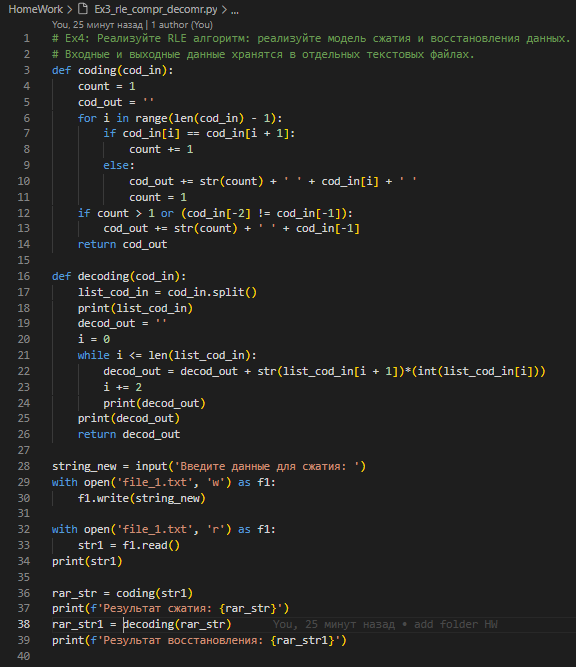
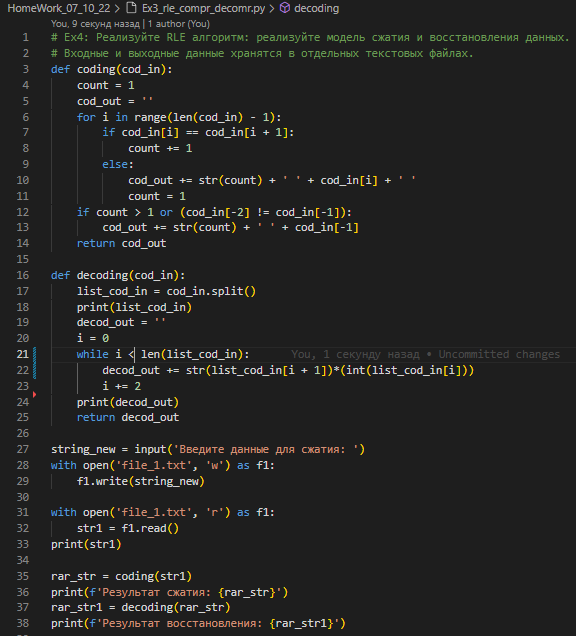
ex3 solved

Changed region(s): [[0.0, 0.0, 0.9688, 1.0], [0.7188, 0.9261, 0.8125, 0.956], [0.8438, 0.9261, 0.875, 0.956]]

diff --git a/HomeWork_07_10_22/Ex3_rle_compr_decomr.py b/HomeWork_07_10_22/Ex3_rle_compr_decomr.py
@@ -18,11 +18,9 @@ def decoding(cod_in):
     print(list_cod_in)
     decod_out = ''
     i = 0
-    while i <= len(list_cod_in):
-        decod_out = decod_out + str(list_cod_in[i + 1])*(int(list_cod_in[i]))
+    while i < len(list_cod_in):
+        decod_out += str(list_cod_in[i + 1])*(int(list_cod_in[i]))
         i += 2
-        print(decod_out)
-    print(decod_out)
     return decod_out
   
 string_new = input('Введите данные для сжатия: ')
